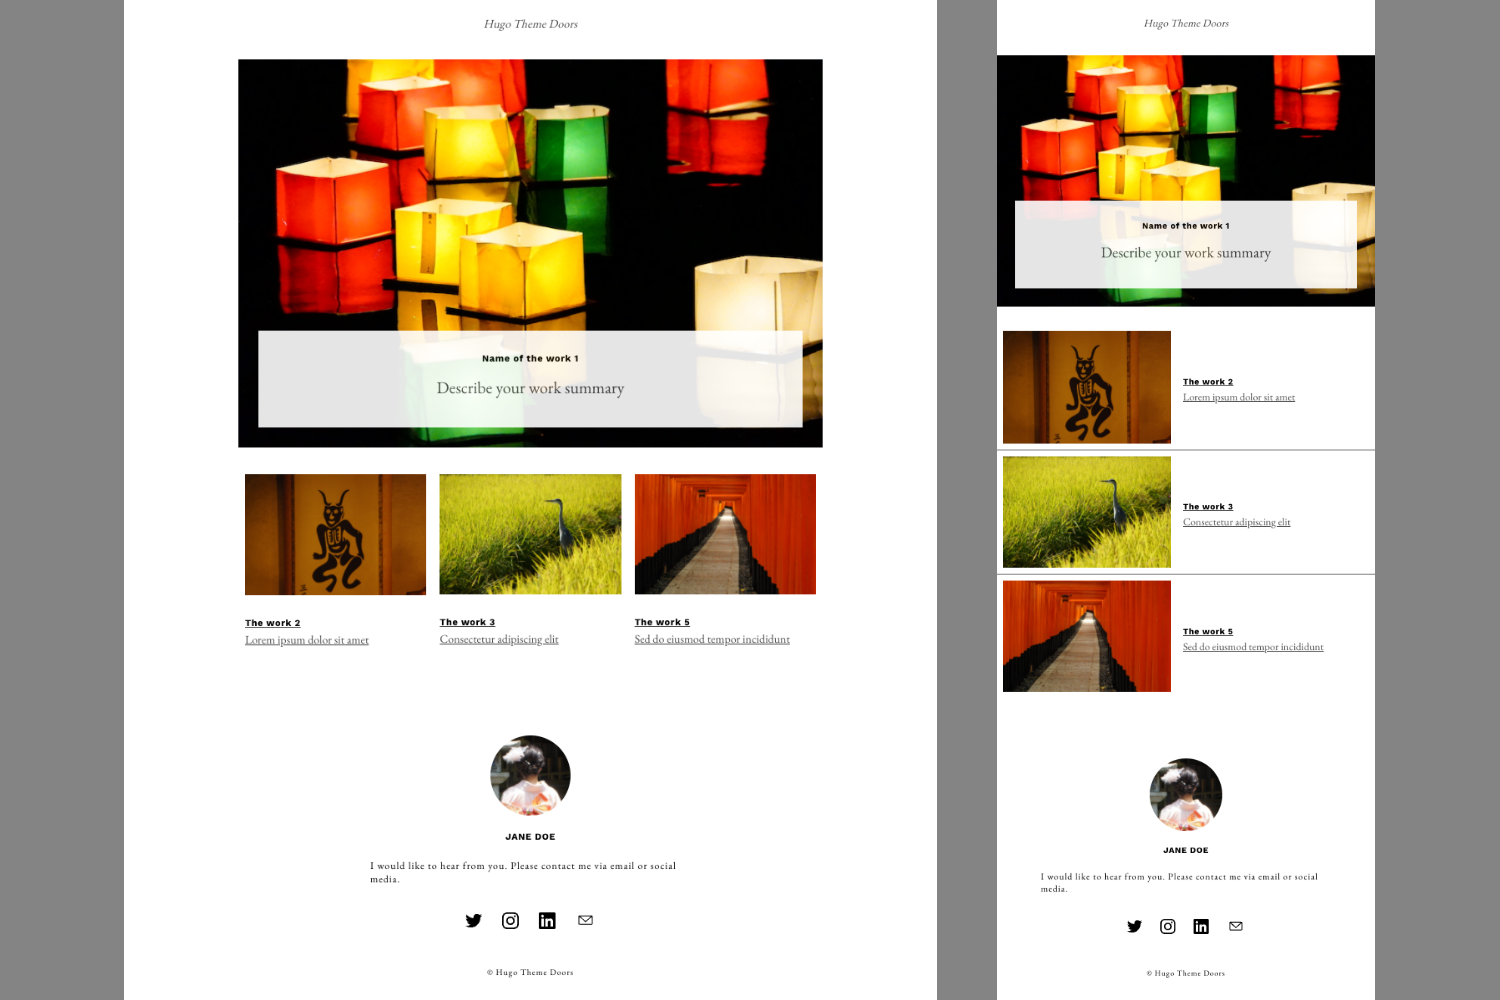
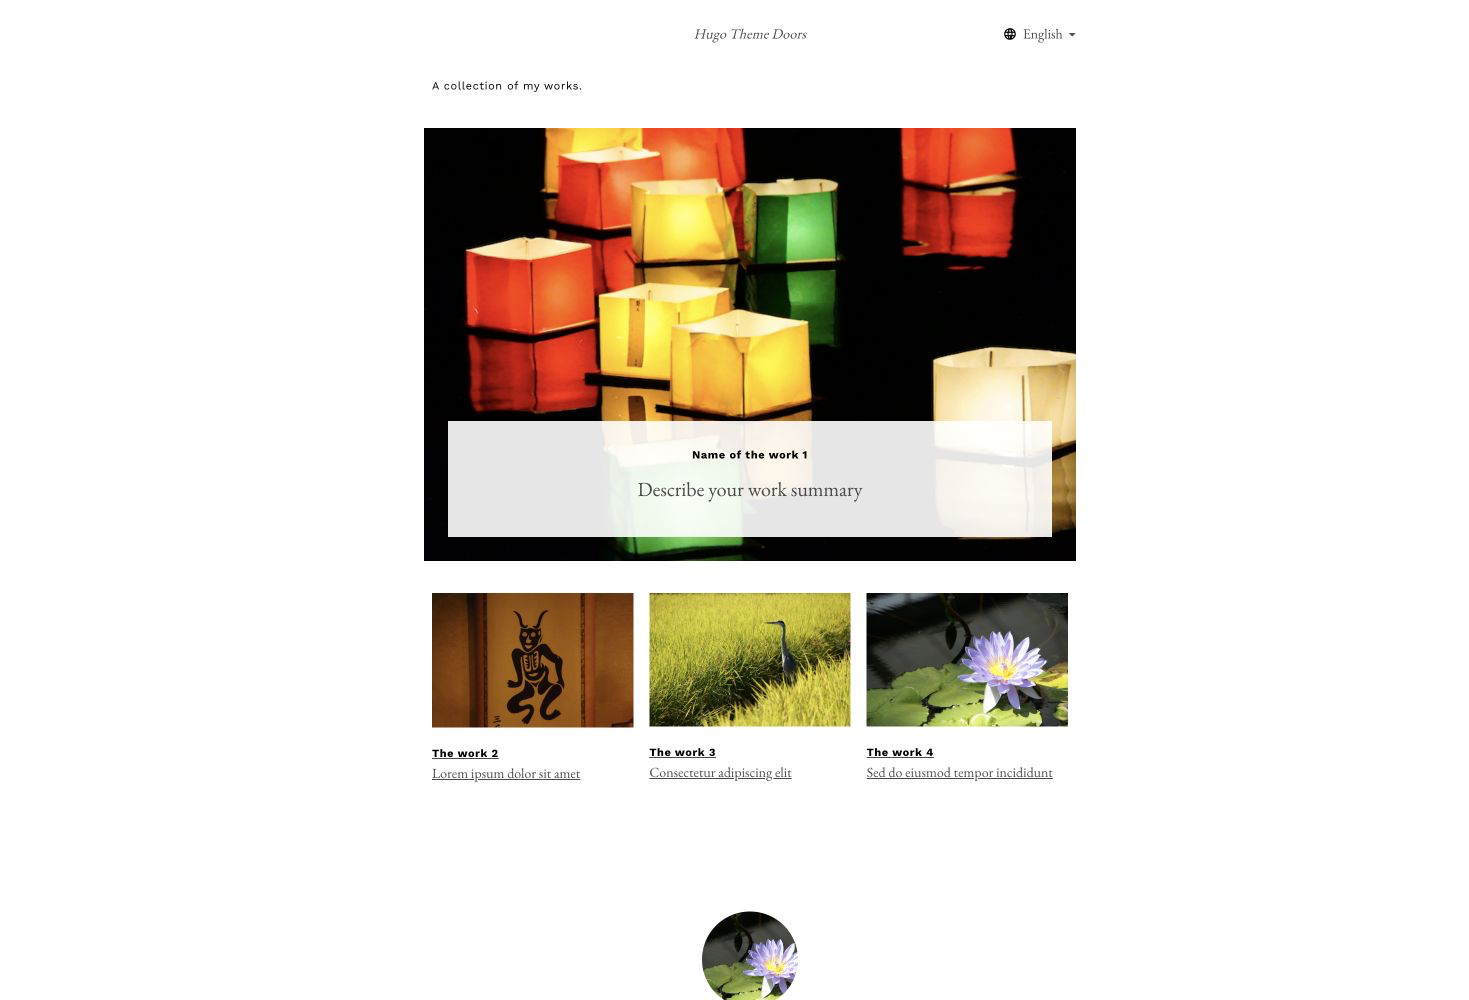
docs: document the non-AMP theme

diff --git a/README.md b/README.md
@@ -1,57 +1,70 @@
 # Hugo Theme Doors
 
-Single page theme for links to your works.  
-See a real usage here: https://zzzmisa.com/
+Doors is a responsive, single-page Hugo theme for showcasing projects and links.
+
+See it in use at [zzzmisa.com](https://zzzmisa.com/).
 
 ![Doors screenshot](https://github.com/zzzmisa/hugo-theme-doors/blob/master/images/screenshot.png?raw=true)
 
 ## Features
 
-- Links to your works
-- Responsive
-- SNS button
-- Google Tag Manager
-- Accelerated Mobile Pages (AMP) supported
+- Featured and secondary project cards
+- Responsive desktop and mobile layouts
+- Multilingual sites with a language switcher
+- Contact profile and social links
+- Open Graph and Twitter Card metadata
+- Optional Google Tag Manager integration
+- Fingerprinted and minified CSS through Hugo Pipes
 
-## Getting started
+## Requirements
 
-The example of how to use this theme is provided in the `exampleSite` folder. At first, try running the example site. The contents of the site can be configured by `config.toml`. After the example site appears, rewrite `config.toml` with your own data to make your own site.
+Doors is tested with Hugo `v0.164.0`.
 
-## Run example site
+## Run the example site
 
-1. Install [Hugo](https://gohugo.io/).
-2. Create a new project folder to running the example site.
-   ```
-   $ mkdir mySite
-   ```
-3. Install this theme into your project folder.
-   ```
-   $ cd mySite
-   $ git clone https://github.com/zzzmisa/hugo-theme-doors.git themes/hugo-theme-doors
-   ```
-4. Copy the entire contents of the `exampleSite` to root folder of your project folder.
-   ```
-   $ cp -r themes/hugo-theme-doors/exampleSite/* .
-   ```
-5. Test the example site.
-   ```
-   $ hugo server -w
-   ```
-   See the result at http://localhost:1313/ on your browser.
-6. Build the example site.
-   ```
-   $ hugo
-   ```
-   Find result files in the `public` folder in the root of your project folder.
+From the theme repository root, run:
+
+```sh
+hugo server --source exampleSite --themesDir ../..
+```
+
+Then open <http://localhost:1313/>.
+
+To build the example into a temporary output directory:
+
+```sh
+./scripts/verify.sh
+```
+
+The verification script builds both configured languages and checks the generated metadata, language switcher, project content, Google Tag Manager markup, CSS asset, and absence of AMP markup.
+
+## Use the theme
+
+Create a Hugo site, then clone Doors into its `themes` directory:
+
+```sh
+hugo new site my-site
+cd my-site
+git clone https://github.com/zzzmisa/hugo-theme-doors.git themes/hugo-theme-doors
+cp themes/hugo-theme-doors/exampleSite/config.toml config.toml
+hugo server
+```
+
+Project and profile content is configured through site parameters:
+
+- `params.googleTagManager`: optional Google Tag Manager container ID
+- `params.ogimage`: social sharing image and Apple touch icon
+- `params.twitterSite`: optional X/Twitter account
+- `params.projects.list`: featured project cards
+- `params.subprojects.list`: secondary project cards
+- `params.contact`: profile, contact text, and social links
+
+For multilingual sites, define these parameters below each `languages.<language>.params` table, as shown in [`exampleSite/config.toml`](exampleSite/config.toml).
 
 ## Contributing
 
-Bug reports and pull requests are welcome! By submitting a pull request, you agree to license your contribution under the MIT license.
-
-## Supported Hugo versions
-
-Hugo Theme Doors is tested against Hugo `v0.53` to `v0.120.4`.
+Bug reports and pull requests are welcome. By submitting a pull request, you agree to license your contribution under the MIT License.
 
 ## Attribution notices
 
-Doors includes open source software and its modified versions. Attribution notices are in code comments of [index.html](https://github.com/zzzmisa/hugo-theme-doors/blob/master/layouts/index.html) and the build output file.
+Doors retains the visual design lineage and required notices from AMP Start's The Scenic template. The notices are included in [`layouts/_default/baseof.html`](layouts/_default/baseof.html) and [`layouts/partials/footer.html`](layouts/partials/footer.html), and therefore in generated pages.
